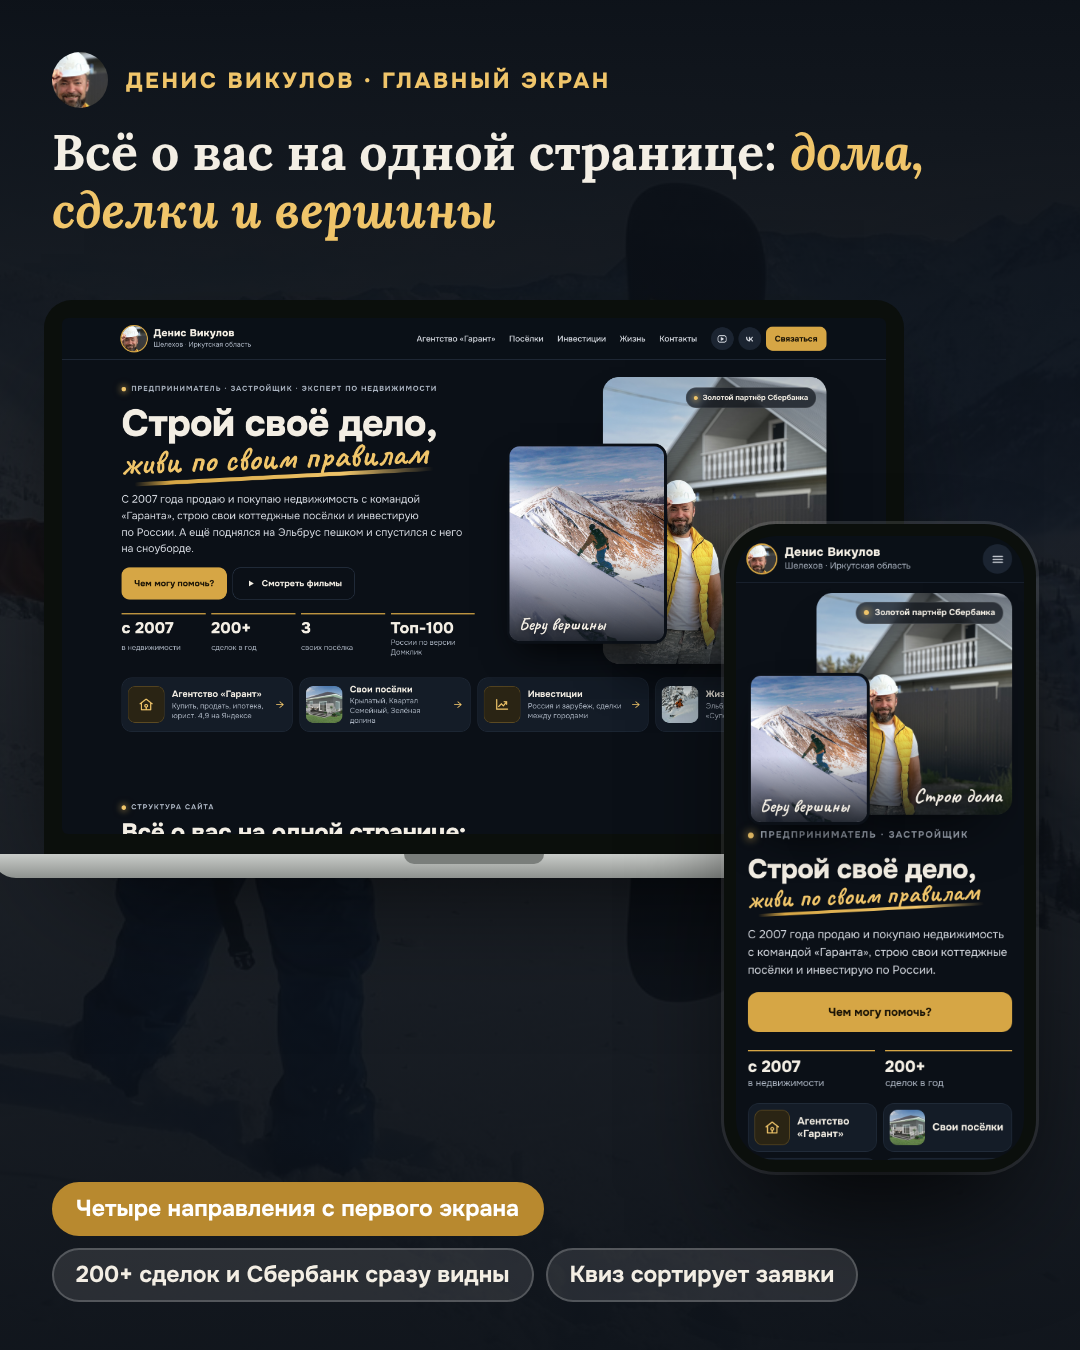
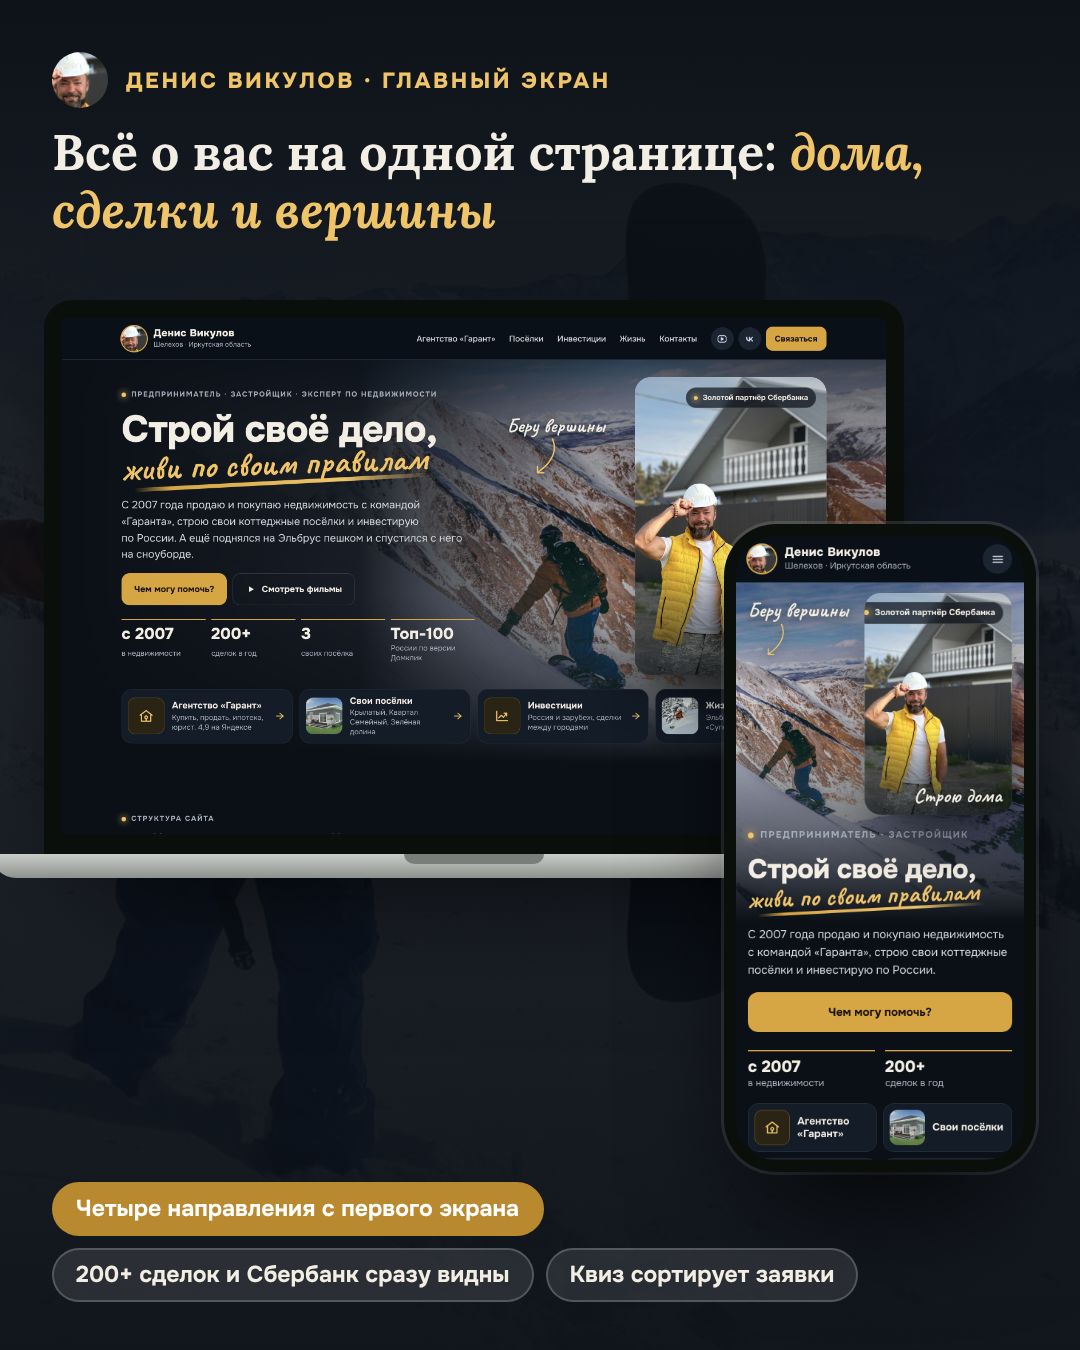
Денис Викулов: горы обоями на главном экране, фото Дениса ничем не закрыто
Claude-Session: https://claude.ai/code/session_01MqcZMF1QZGroxt2dRB4nWR

Changed region(s): [[0.0917, 0.2489, 0.9472, 0.6844], [0.275, 0.5911, 0.4278, 0.6222], [0.0917, 0.5911, 0.2139, 0.6222]]

diff --git a/denis-vikulov/index.html b/denis-vikulov/index.html
@@ -73,19 +73,20 @@ nav a:hover{color:var(--gold-hi)}
 .stats b{font-size:clamp(22px,2vw,28px);font-weight:800;line-height:1.05}
 .stats span{font-size:13px;color:var(--muted);line-height:1.3}
 
+.stage{position:relative;isolation:isolate}
+.stage::before{content:"";position:absolute;inset:0;z-index:-2;background:url(img/spusk.jpg) 0% 38%/116% auto no-repeat}
+.stage::after{content:"";position:absolute;inset:0;z-index:-1;background:linear-gradient(90deg,var(--bg) 0%,rgb(11 16 23 / .93) 36%,rgb(11 16 23 / .5) 54%,rgb(11 16 23 / .15) 70%,rgb(11 16 23 / .3) 100%),linear-gradient(180deg,rgb(11 16 23 / .55) 0%,transparent 16%,transparent 58%,var(--bg) 100%)}
 .h-pics{position:relative}
-.collage{position:relative;min-height:500px;height:100%}
-.ph-main{position:absolute;top:0;right:0;bottom:0;width:70%;border-radius:28px;overflow:hidden;background:url(img/denis-kaska.jpg) 38% 30%/cover;box-shadow:0 40px 80px -40px rgb(0 0 0 / .9)}
+.collage{position:relative;min-height:520px;height:100%}
+.ph-main{position:absolute;top:0;right:0;bottom:0;width:60%;border-radius:28px;overflow:hidden;background:url(img/denis-kaska.jpg) 34% 30%/cover;box-shadow:0 40px 80px -30px rgb(0 0 0 / .9);outline:1px solid rgb(255 255 255 / .16);outline-offset:-1px}
 .ph-main::after{content:"";position:absolute;inset:0;background:linear-gradient(180deg,rgb(11 16 23 / .25) 0%,transparent 28%,transparent 62%,rgb(11 16 23 / .8) 100%)}
-.ph-side{position:absolute;left:0;bottom:7%;width:50%;aspect-ratio:4/5;border-radius:22px;overflow:hidden;background:url(img/spusk.jpg) 48% 50%/cover;border:5px solid var(--bg);box-shadow:0 30px 60px -24px rgb(0 0 0 / .9)}
-.ph-side::after{content:"";position:absolute;inset:0;background:linear-gradient(180deg,transparent 55%,rgb(11 16 23 / .85) 100%)}
-.cap{position:absolute;z-index:2;font-family:var(--script);font-size:34px;line-height:1;color:var(--ink);text-shadow:0 2px 12px rgb(0 0 0 / .6)}
+.cap{position:absolute;z-index:2;font-family:var(--script);font-size:34px;line-height:1;color:var(--ink);text-shadow:0 2px 14px rgb(0 0 0 / .7)}
 .ph-main .cap{right:22px;bottom:20px}
-.ph-side .cap{left:16px;bottom:14px;font-size:30px}
+.cap.peak{left:0;top:13%;display:grid;gap:2px;justify-items:start}
+.cap.peak svg{width:58px;height:70px;color:var(--gold-hi);margin-left:40px;filter:drop-shadow(0 2px 6px rgb(0 0 0 / .6))}
 .chip{position:absolute;z-index:3;display:inline-flex;align-items:center;gap:8px;background:rgb(11 16 23 / .7);backdrop-filter:blur(8px);border:1px solid rgb(255 255 255 / .14);border-radius:999px;padding:7px 13px;font-size:13px;font-weight:700;white-space:nowrap}
 .chip::before{content:"";width:7px;height:7px;border-radius:50%;background:var(--gold-hi);box-shadow:0 0 10px 2px rgb(240 197 106 / .6)}
 .chip.sber{top:18px;right:18px}
-.chip.geo{top:18px;left:calc(30% + 18px)}
 
 /* четыре входа */
 .dirs{display:grid;grid-template-columns:repeat(4,minmax(0,1fr));gap:12px;padding-block:24px 34px}
@@ -103,15 +104,15 @@ nav a:hover{color:var(--gold-hi)}
   .hero{grid-template-columns:1fr;gap:18px;padding-top:14px}
   .h-pics{order:-1}
   .collage{min-height:0;height:320px}
-  .ph-main{width:72%}
-  .ph-side{width:44%;bottom:-14px}
-  .chip.geo{display:none}
+  .ph-main{width:58%}
+  .stage::before{inset:0 0 auto 0;height:470px;background-position:97% 50%;background-size:auto 470px;background-repeat:no-repeat}
+  .stage::after{background:linear-gradient(180deg,rgb(11 16 23 / .2) 0,rgb(11 16 23 / .05) 150px,rgb(11 16 23 / .55) 330px,var(--bg) 460px)}
 }
 @media (max-width:640px){
   .collage{height:300px}
-  .ph-main{width:74%;border-radius:22px}
-  .ph-side{width:46%;border-radius:18px;border-width:4px}
-  .cap{font-size:27px}.ph-side .cap{font-size:24px;left:12px;bottom:10px}.ph-main .cap{right:14px;bottom:12px}
+  .ph-main{width:56%;border-radius:22px}
+  .cap{font-size:27px}.ph-main .cap{right:14px;bottom:12px}
+  .cap.peak{left:0;top:10px;font-size:27px}.cap.peak svg{width:40px;height:50px;margin-left:18px}
   .chip{font-size:11.5px;padding:5px 10px}.chip.sber{top:12px;right:12px}
   .hero h1{font-size:37px}
   .hero h1 .scr{font-size:35px;width:max-content}
@@ -215,6 +216,7 @@ dialog p{color:var(--muted);font-size:14.5px;margin-bottom:8px}
 </header>
 
 <main id="top">
+  <div class="stage">
   <div class="wrap">
     <div class="hero">
       <div class="h-left">
@@ -235,7 +237,7 @@ dialog p{color:var(--muted);font-size:14.5px;margin-bottom:8px}
       <div class="h-pics">
         <div class="collage">
           <div class="ph-main"><span class="chip sber">Золотой партнёр Сбербанка</span><span class="cap">Строю дома</span></div>
-          <div class="ph-side"><span class="cap">Беру вершины</span></div>
+          <span class="cap peak">Беру вершины<svg viewBox="0 0 58 70" fill="none" stroke="currentColor" stroke-width="2.4" stroke-linecap="round" stroke-linejoin="round"><path d="M40 4c8 18 2 40-26 58"/><path d="M14 52v11h11"/></svg></span>
         </div>
       </div>
     </div>
@@ -246,6 +248,7 @@ dialog p{color:var(--muted);font-size:14.5px;margin-bottom:8px}
       <a class="dir" href="#struktura"><span class="th gt"><svg viewBox="0 0 24 24" fill="none" stroke="currentColor" stroke-width="1.8" stroke-linecap="round" stroke-linejoin="round"><path d="M4 19V5"/><path d="M4 19h16"/><path d="m7 15 4-4 3 3 5-6"/><path d="M15 8h4v4"/></svg></span><span><b>Инвестиции</b><small>Россия и&nbsp;зарубеж, сделки между городами</small></span><span class="ar">→</span></a>
       <a class="dir" href="#struktura"><span class="th" style="background-image:url(img/frirayd.jpg);background-position:45% 40%"></span><span><b>Жизнь и&nbsp;вершины</b><small>Эльбрус, Байкал, «Суперниндзя», фильмы</small></span><span class="ar">→</span></a>
     </div>
+  </div>
   </div>
 
   <section id="struktura">
